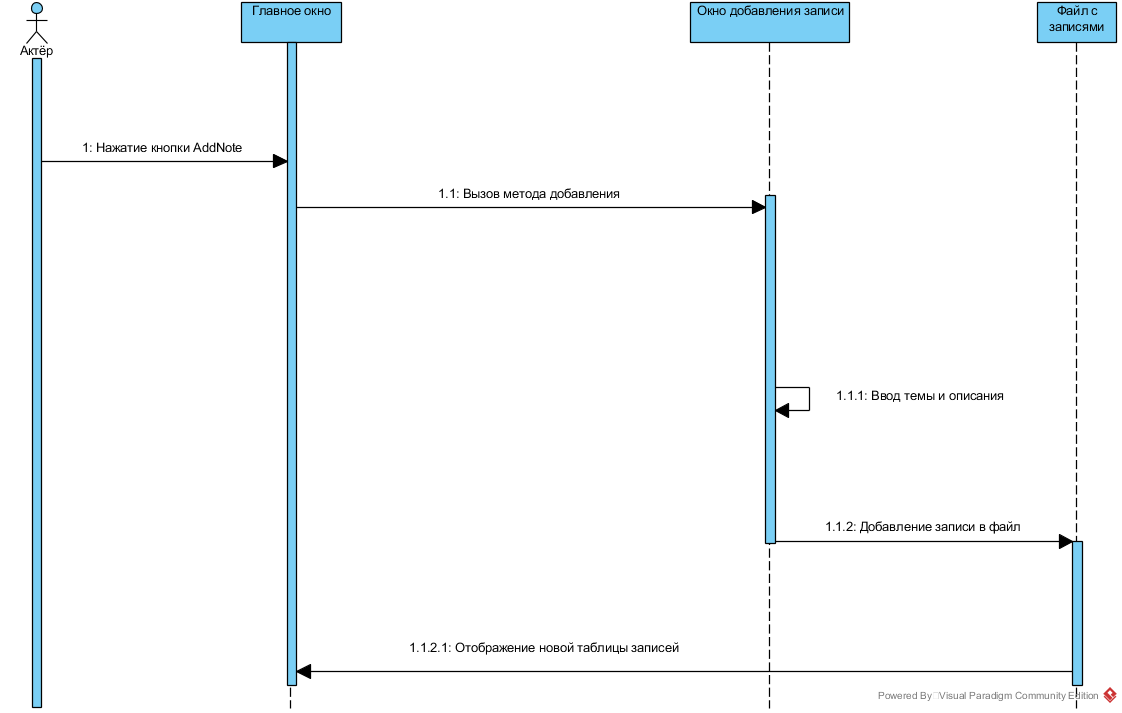
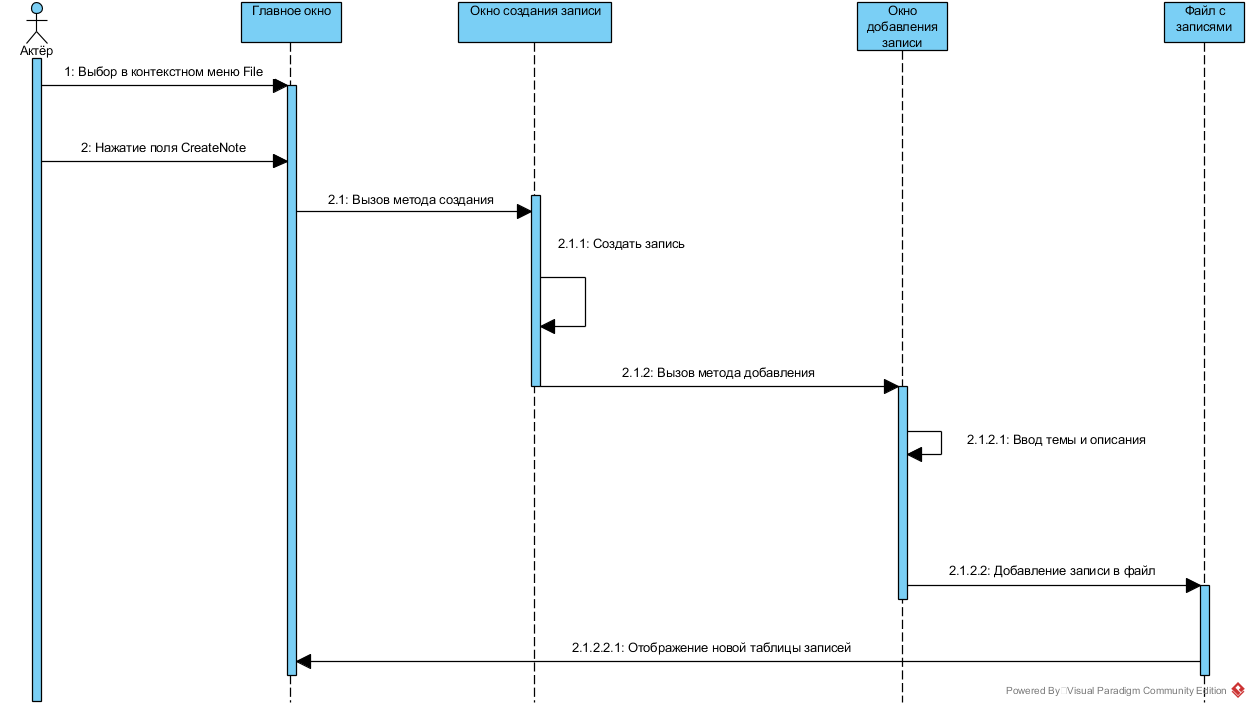
Changed diagramms

diff --git a/Documentation/SRS-en.md b/Documentation/SRS-en.md
@@ -20,10 +20,10 @@
 3 [System Requirements](#system_requirements) <br>
   3.1 [Functional requirements](#functional_requirements) <br>
     3.1.1 [Basic Functions](#main_functions) <br>
-      3.1.1.1 [Create Note](#user_logon_to_the_application) <br>
-      3.1.1.2 [Add Note](#setting_up_the_profile_of_the_active_user) <br>
-      3.1.1.3 [Edit post](#download_news) <br>
-      3.1.1.4 [Save Note](#view_information_about_an_individual_newsletter) <br>
+      3.1.1.1 [Add Note](#user_logon_to_the_application) <br>
+      3.1.1.2 [Note Sorting](#setting_up_the_profile_of_the_active_user) <br>
+      3.1.1.3 [Edit Note](#download_news) <br>
+      3.1.1.4 [Note Search](#view_information_about_an_individual_newsletter) <br>
       3.1.1.5 [Delete Note](#active_user_change) <br>
     3.1.2 [Limitations and Exceptions](#restrictions_and_exclusions) <br>
   3.2 [Non-functional requirements](#non-functional_requirements) <br>
@@ -139,51 +139,50 @@ People of any age category with the above qualities.
 
 <a name="user_logon_to_the_application"/>
 
-#### 3.1.1.1 Create Note
-**Description.** The user has the ability to create an entry.
+#### 3.1.1.1 Add Note
+**Description.** The user has the ability to add a new entry.
 
 | Function | Requirements |
-|:--- |:---|
-| Create Note | The application must provide the user the ability to create a record |
+|:---|:---|
+| Add record | The application should provide the user with the opportunity to create a record, as well as 2 fields for entering the main topic (name) of the record and its brief description. The user must either fill in all the fields and confirm the action, or cancel it |
 
 
 <a name="setting_up_the_profile_of_the_active_user"/>
 
-#### 3.1.1.2 Add Note
-**Description.** User has the option to add a new entry.
+#### 3.1.1.2 Note Sorting
+**Description.** User has the ability to sort existing Notes.
 
 | Function | Requirements |
 |:---|:---|
-| Add Note | The application should provide the user with a field to enter the main topic (name) of the entry, as well as a brief description of the topic of the entry. The user must either fill in all the fields and confirm the action, or cancel it |
+| Sort new Note | The application must provide the user with criteria for sorting the Note (by size, by date of addition). |
 
 <a name="download_news"/>
 
 #### 3.1.1.3 Edit Note
-**Description.** The user should be able to change the added entry.
+**Description.** The user should be able to change the added Note.
 
 | Function | Requirements |
 |:---|:---|
-| Edit Note | The application should provide the user with the ability to edit individual elements of a post: subject, description |
+| Editing a record | The application should provide the user with the ability to edit individual elements of a post: title, description |
 
 
 <a name="view_information_about_an_individual_newsletter"/>
 
-#### 3.1.1.4 Save Note
-**Description.** The user should be able to save their records.
+#### 3.1.1.4 Note Search
+**Description.** The user must be able to search his Notes.
 
 | Function | Requirements |
 |:---|:---|
-| Save Note | The user has the opportunity to choose the path to save their records. The application should display the path for storing records, selected by default, and also provide the ability to select another path |
-
+| Note Search | The user has the ability to search for Notes by title and description. The application must sort the existing Notes according to the search results |
 
 <a name="active_user_change"/>
 
 #### 3.1.1.5 Delete Note
-**Description.** The user should be able to delete unwanted entries.
+**Description.** The user should be able to delete unwanted Notes.
 
 | Function | Requirements |
 |:---|:---|
-| Delete Note | The user has the ability to delete an extra entry. The application should display a window to confirm the deletion of the selected entry and give the user one last chance before choosing |
+| Delete Note | The user has the ability to delete an extra Note. The application should display a window to confirm the deletion of the selected Note and give the user one last chance before choosing |
 
 
 <a name="restrictions_and_exclusions"/>

diff --git a/Documentation/SRS-ru.md b/Documentation/SRS-ru.md
@@ -139,22 +139,22 @@
 
 <a name="user_logon_to_the_application"/>
 
-#### 3.1.1.1 Создание записи
-**Описание.** Пользователь имеет возможность создать запись.
+#### 3.1.1.1 Добавление записи
+**Описание.** Пользователь имеет возможность добавления новой записи.
 
 | Функция | Требования |
 |:---|:---|
-| Создание записи | Приложение должно предоставить пользователю возможность создать запись |
+| Добавление записи | Приложение должно предоставить пользователю возможность создать запись, а также 2 поля для ввода основной темы (названия) записи и её краткого описания. Пользователь должен либо заполнить все поля и подвердить действие, либо отменить его |
 
 
 <a name="setting_up_the_profile_of_the_active_user"/>
 
-#### 3.1.1.2 Добавление записи
-**Описание.** Пользователь имеет возможность добавить новую запись
+#### 3.1.1.2 Сортировка записи
+**Описание.** Пользователь имеет возможность сортировать существующие записи
 
 | Функция | Требования |
 |:---|:---|
-| Добавление новой записи | Приложение должно предоставить  пользователю поле для ввода основной темы (названия) записи, а также краткого описания темы записи. Пользователь должен либо заполнить все поля и подвердить действие, либо отменить его |
+| Сортировка новой записи | Приложение должно предоставить пользователю критерии для сортировки записи(по размеру, по дате добавления).  |
 
 <a name="download_news"/>
 
@@ -168,12 +168,12 @@
 
 <a name="view_information_about_an_individual_newsletter"/>
 
-#### 3.1.1.4 Сохранение записи
-**Описание.** Пользователь должен иметь возможность сохранять свои записи.
+#### 3.1.1.4 Поиск записи
+**Описание.** Пользователь должен иметь возможность поиска своих записей.
 
 | Функция | Требования |
 |:---|:---|
-| Сохранение записи | Пользователь имеет возможность выбрать путь для сохранения своих записей. Приложение должно отобразить путь для хранения записей, выбранный по умолчанию, а также предоставить возможность выбора другого пути |
+| Поиск записи | Пользователь имеет возможность поиска записей по названию темы и описанию. Приложение должно отсортировать существующие записи, согласно результатам поиска |
 
 
 <a name="active_user_change"/>
